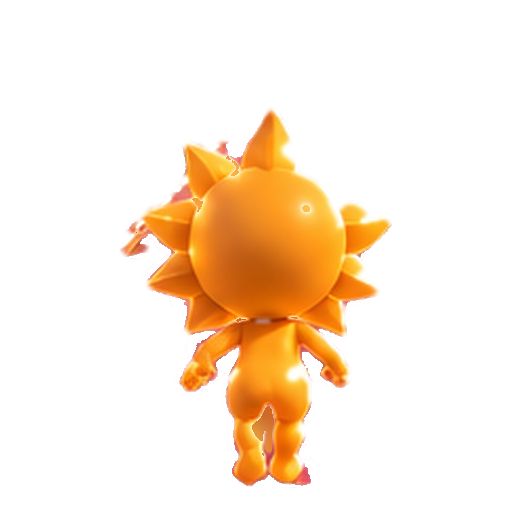
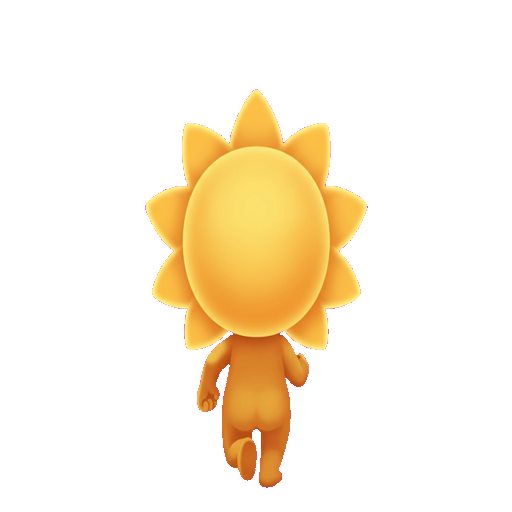
feat(art): S8b - rebuilt Soul run cycle + world-authored track strip (Dusk)
Soul run cycle REGENERATED (8 frames):
- each frame anchored on the approved identity (char-front crop) plus a
  per-pose crop cell from the user's own Animation Sheet (Left/Right
  Contact, Weight Down L/R, Passing L/R, Airborne/Mirror)
- pixel-exact bake: magenta key -> uniform 400px silhouette height,
  bottom baseline y=488 on every frame, hcenter ~256; interior holes
  0; magenta-band despill on edge pixel band
- poses now read as a coherent alternating gait; identity rock-stable
Dusk Hollow track strip:
- new 848x1264 perspective violet-basalt path with cyan edge rails and
  gold dust; scrolled modularly with travelled inside the track
  trapezoid clip (zero-rendering-risk: wrap guard, null fallback to the
  S8 gradient for worlds without a strip yet)
- config: nullable trackStripKeyFor(); guarded preload in game
NOTE: Moonveil/Emberfall strips intentionally omitted - image
generation per-turn limit reached (10/10); queued next turn, engine
already falls back cleanly (unit-tested).

Changed region(s): [[0.2188, 0.1562, 0.7812, 0.9688]]

diff --git a/lib/game/components/track_scene.dart b/lib/game/components/track_scene.dart
@@ -174,6 +174,52 @@ class TrackScene extends PositionComponent
         ),
     );
 
+    // S8b: world-authored perspective track surface strip. The strip is
+    // drawn cover-style inside the trapezoid and scrolled modularly with
+    // travelled distance so the ground itself flows toward the player.
+    final strip = game.trackStrip;
+    if (strip != null) {
+      canvas.save();
+      canvas.clipPath(track);
+      final stripH = strip.height.toDouble();
+      final dstTop = horizonY;
+      final dstH = h - horizonY;
+      final dstRect =
+          Rect.fromLTWH(cx - halfBottom, dstTop, 2 * halfBottom, dstH);
+      // scroll phase: one strip length per one track length
+      final scroll =
+          (game.travelled / GameConfig.trackLength % 1.0) * stripH;
+      if (scroll < 1.0) {
+        canvas.drawImageRect(
+          strip,
+          Rect.fromLTWH(0, 0, strip.width.toDouble(), stripH),
+          dstRect,
+          Paint()..filterQuality = FilterQuality.medium,
+        );
+        canvas.restore();
+        // continue with edges/lanes below
+      } else {
+      final partH = stripH - scroll;
+      // upper tile: tail segment of the source strip near the horizon
+      canvas.drawImageRect(
+        strip,
+        Rect.fromLTWH(0, 0, strip.width.toDouble(), partH),
+        Rect.fromLTWH(dstRect.left, dstRect.top, dstRect.width,
+            dstH * (partH / stripH)),
+        Paint()..filterQuality = FilterQuality.medium,
+      );
+      // lower tile: wrapped head segment flowing toward the player
+      canvas.drawImageRect(
+        strip,
+        Rect.fromLTWH(0, partH, strip.width.toDouble(), scroll),
+        Rect.fromLTWH(dstRect.left, dstRect.top + dstH * (partH / stripH),
+            dstRect.width, dstH * (scroll / stripH)),
+        Paint()..filterQuality = FilterQuality.medium,
+      );
+      canvas.restore();
+      }
+    }
+
     final edge = Paint()
       ..color = Color(GameConfig.trackEdgeArgbFor(game.selectedWorld))
       ..style = PaintingStyle.stroke

diff --git a/lib/game/soul_dusk_run_game.dart b/lib/game/soul_dusk_run_game.dart
@@ -62,6 +62,11 @@ class SoulDuskRunGame extends FlameGame with HasCollisionDetection {
   ui.Image? orbSprite;
   ui.Image? obstacleSprite;
 
+  /// Decoded S8b perspective track surface strip for the selected world
+  /// (null until preloaded / null when the world has no strip yet —
+  /// TrackScene keeps its canvas gradient in that case).
+  ui.Image? trackStrip;
+
   // P3B: approved 8-frame run cycle (pre-keyed RGBA plates). Empty when
   // frames could not be decoded — the player then falls back to the
   // single hero sprite, then to the canvas placeholder.
@@ -192,6 +197,14 @@ class SoulDuskRunGame extends FlameGame with HasCollisionDetection {
       debugPrint('P2 art: Soul sprite unavailable ($error). '
           'Using canvas placeholder.');
       soulSprite = null;
+    }
+    try {
+      final trackKey = GameConfig.trackStripKeyFor(selectedWorld);
+      trackStrip = trackKey == null ? null : await images.load(trackKey);
+    } catch (error) {
+      debugPrint('S8b art: track strip unavailable ($error). '
+          'Using canvas gradient.');
+      trackStrip = null;
     }
     try {
       obstacleSprite =

diff --git a/lib/game/config/game_config.dart b/lib/game/config/game_config.dart
@@ -114,6 +114,23 @@ class GameConfig {
   static const String emberfallCanyonBackdropKey =
       'worlds/emberfall_canyon/backdrop.png';
 
+  /// Perspective track surface strips (S8b). Null = canvas gradient only
+  /// until that world's strip ships (generated-asset limit this turn;
+  /// Moonveil/Emberfall strips queued next).
+  static const String duskHollowTrackStripKey =
+      'worlds/dusk_hollow/track_strip.png';
+
+  /// Track strip per world, or null when the canvas gradient must be used.
+  static String? trackStripKeyFor(GameWorld world) {
+    switch (world) {
+      case GameWorld.duskHollow:
+        return duskHollowTrackStripKey;
+      case GameWorld.moonveilMarsh:
+      case GameWorld.emberfallCanyon:
+        return null;
+    }
+  }
+
   /// Where the backdrop's painted horizon sits inside the image, as a
   /// fraction of image height (tuned to the current asset; S2 backdrop
   /// v2 carries its golden glow/citadel horizon at ~245/768).

diff --git a/test/unit/world_config_test.dart b/test/unit/world_config_test.dart
@@ -21,6 +21,13 @@ void main() {
     }
   });
 
+  test('track strip keys: dusk has one, others fall back to gradient', () {
+    expect(GameConfig.trackStripKeyFor(GameWorld.duskHollow),
+        equals('worlds/dusk_hollow/track_strip.png'));
+    expect(GameConfig.trackStripKeyFor(GameWorld.moonveilMarsh), isNull);
+    expect(GameConfig.trackStripKeyFor(GameWorld.emberfallCanyon), isNull);
+  });
+
   test('every world has a complete opaque-free track palette', () {
     for (final world in GameWorld.values) {
       final values = <int>[
